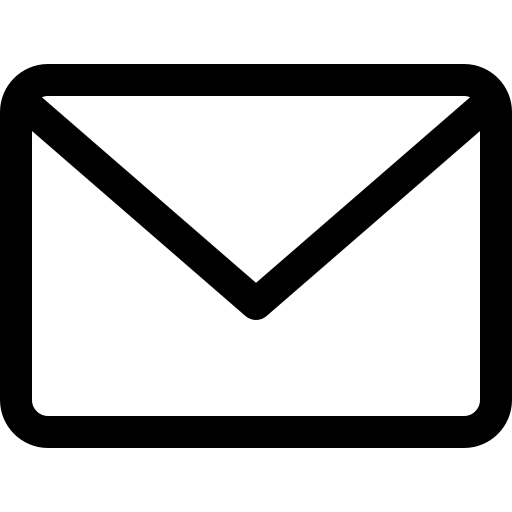
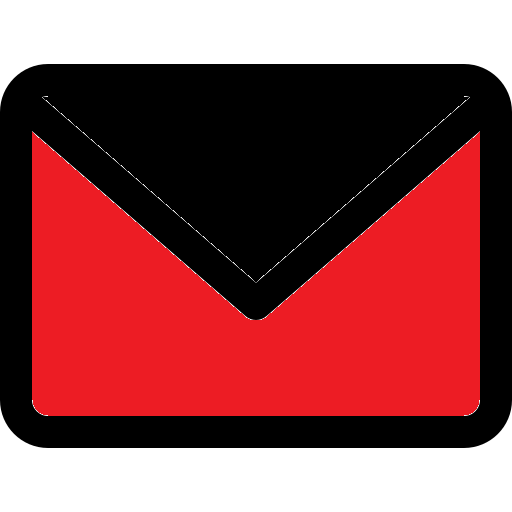
img

diff --git a/css/apps/mister-mail/cmps/cmps-style.css b/css/apps/mister-mail/cmps/cmps-style.css
@@ -51,5 +51,6 @@
     /* padding: 10px; */
 }
 .is-read-logo{
-    width: 20px;
+    width: 30px;
+    color: black;
 }
